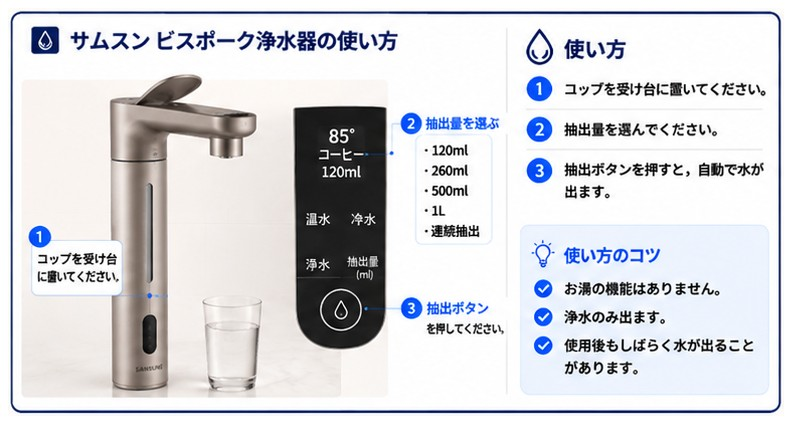
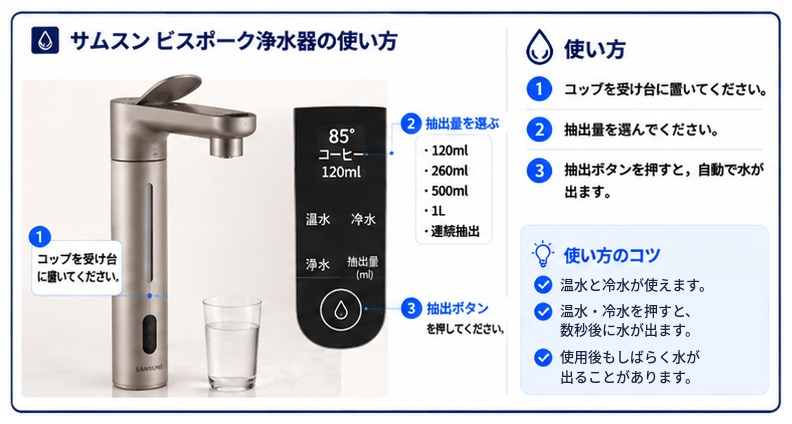
정수기 안내: 온수·냉수 기능과 출수 대기 시간 안내로 수정 (5개 언어)
Claude-Session: https://claude.ai/code/session_01A9QqrtmfkoPPPbNdtUGqGr

Changed region(s): [[0.6667, 0.6439, 0.9697, 0.9198]]

diff --git a/sw.js b/sw.js
@@ -1,6 +1,6 @@
 /* 인터넷이 없어도 안내가 열리도록 파일을 휴대폰에 저장해 두는 장치입니다.
    index.html 이나 사진을 바꾼 뒤에는 아래 VERSION 숫자를 하나 올려 주세요. */
-var VERSION = "atmoreddp-23";
+var VERSION = "atmoreddp-24";
 var FILES = [
   "./",
   "./index.html",
